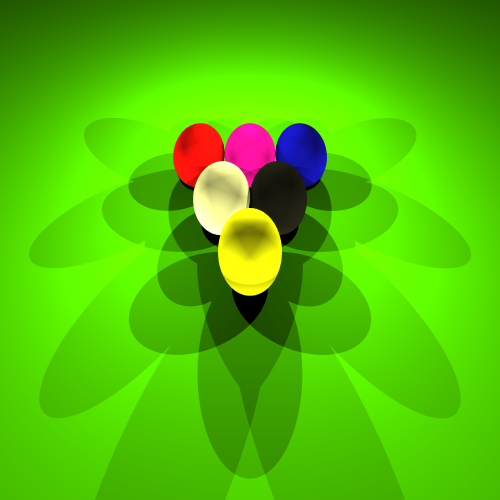
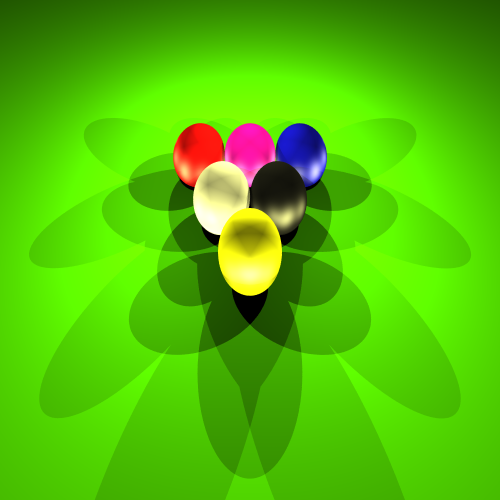
More recursive

diff --git a/src/Objects/Surface.java b/src/Objects/Surface.java
@@ -2,6 +2,8 @@ package Objects;
 
 import java.awt.Color;
 
+import RayTracing.RayTracer;
+
 public abstract class Surface {
 	
 	Material material;
@@ -29,7 +31,7 @@ public abstract class Surface {
 		return new Color(material.getDr(), material.dg, material.db);
 	}
 	
-	public Color getOutputColorInPoint(Point point, Scene scene, Ray rayFromViewer)
+	public Color getOutputColorInPoint(Point point, Scene scene, Ray rayFromViewer,RayTracer rayTracer , int recursionStep)
 	{
 		float r = 0;
 		float g = 0;
@@ -55,20 +57,24 @@ public abstract class Surface {
 				r += Math.abs(light.getDiffuseColorR(point, this, rayToLight)) +  Math.abs(light.getSpecularColorR(point, this, rayToLight, rayFromViewer));
 				g += Math.abs(light.getDiffuseColorG(point, this, rayToLight)) +  Math.abs(light.getSpecularColorG(point, this, rayToLight, rayFromViewer));
 				b += Math.abs(light.getDiffuseColorB(point, this, rayToLight)) +  Math.abs(light.getSpecularColorB(point, this, rayToLight, rayFromViewer));
-				if(g > 1)
-				{
-					g = 1;
-				}
-				if(r > 1)
-				{
-					r = 1;
-				}
-				if(b > 1)
-				{
-					b = 1;
-				}
+				
 			}
 
+		}
+		
+		//Intersection rayTracer.get
+		
+		if(g > 1)
+		{
+			g = 1;
+		}
+		if(r > 1)
+		{
+			r = 1;
+		}
+		if(b > 1)
+		{
+			b = 1;
 		}
 		return new Color(r, g, b);
 	}
@@ -84,5 +90,8 @@ public abstract class Surface {
 		return new Ray(p,direction);
 	}
 	
+	public Ray getRefractedRay(Ray ray, Point p) {
+		return new Ray(p, ray.getVector());
+	}
 	
 }

diff --git a/src/RayTracing/RayTracer.java b/src/RayTracing/RayTracer.java
@@ -260,7 +260,7 @@ public class RayTracer {
 				for (Ray ray : rays) {
 					Intersection intersection = getIntersectionFromRay(ray);
 					if(intersection != null){
-						colors.add(intersection.getSurface().getOutputColorInPoint(intersection.getPoint(), scene, ray));
+						colors.add(intersection.getSurface().getOutputColorInPoint(intersection.getPoint(), scene, ray, this, 0));
 					}
 				}
 				int red = 0;

diff --git a/src/Objects/Sphere.java b/src/Objects/Sphere.java
@@ -57,8 +57,5 @@ public class Sphere extends Surface {
 		}
 		return ray.getPointOnRayByDistance(t);
 	}
-
-	
-	
 	
 }

diff --git a/src/Objects/Plane.java b/src/Objects/Plane.java
@@ -43,7 +43,4 @@ public class Plane extends Surface{
 		return ray.getPointOnRayByDistance(t);
 	}
 	
-	
-	
-	
 }

diff --git a/src/Objects/Triangle.java b/src/Objects/Triangle.java
@@ -75,7 +75,5 @@ public class Triangle extends Surface {
 		
 		return intersection;
 	}
-	
-	
 
 }
